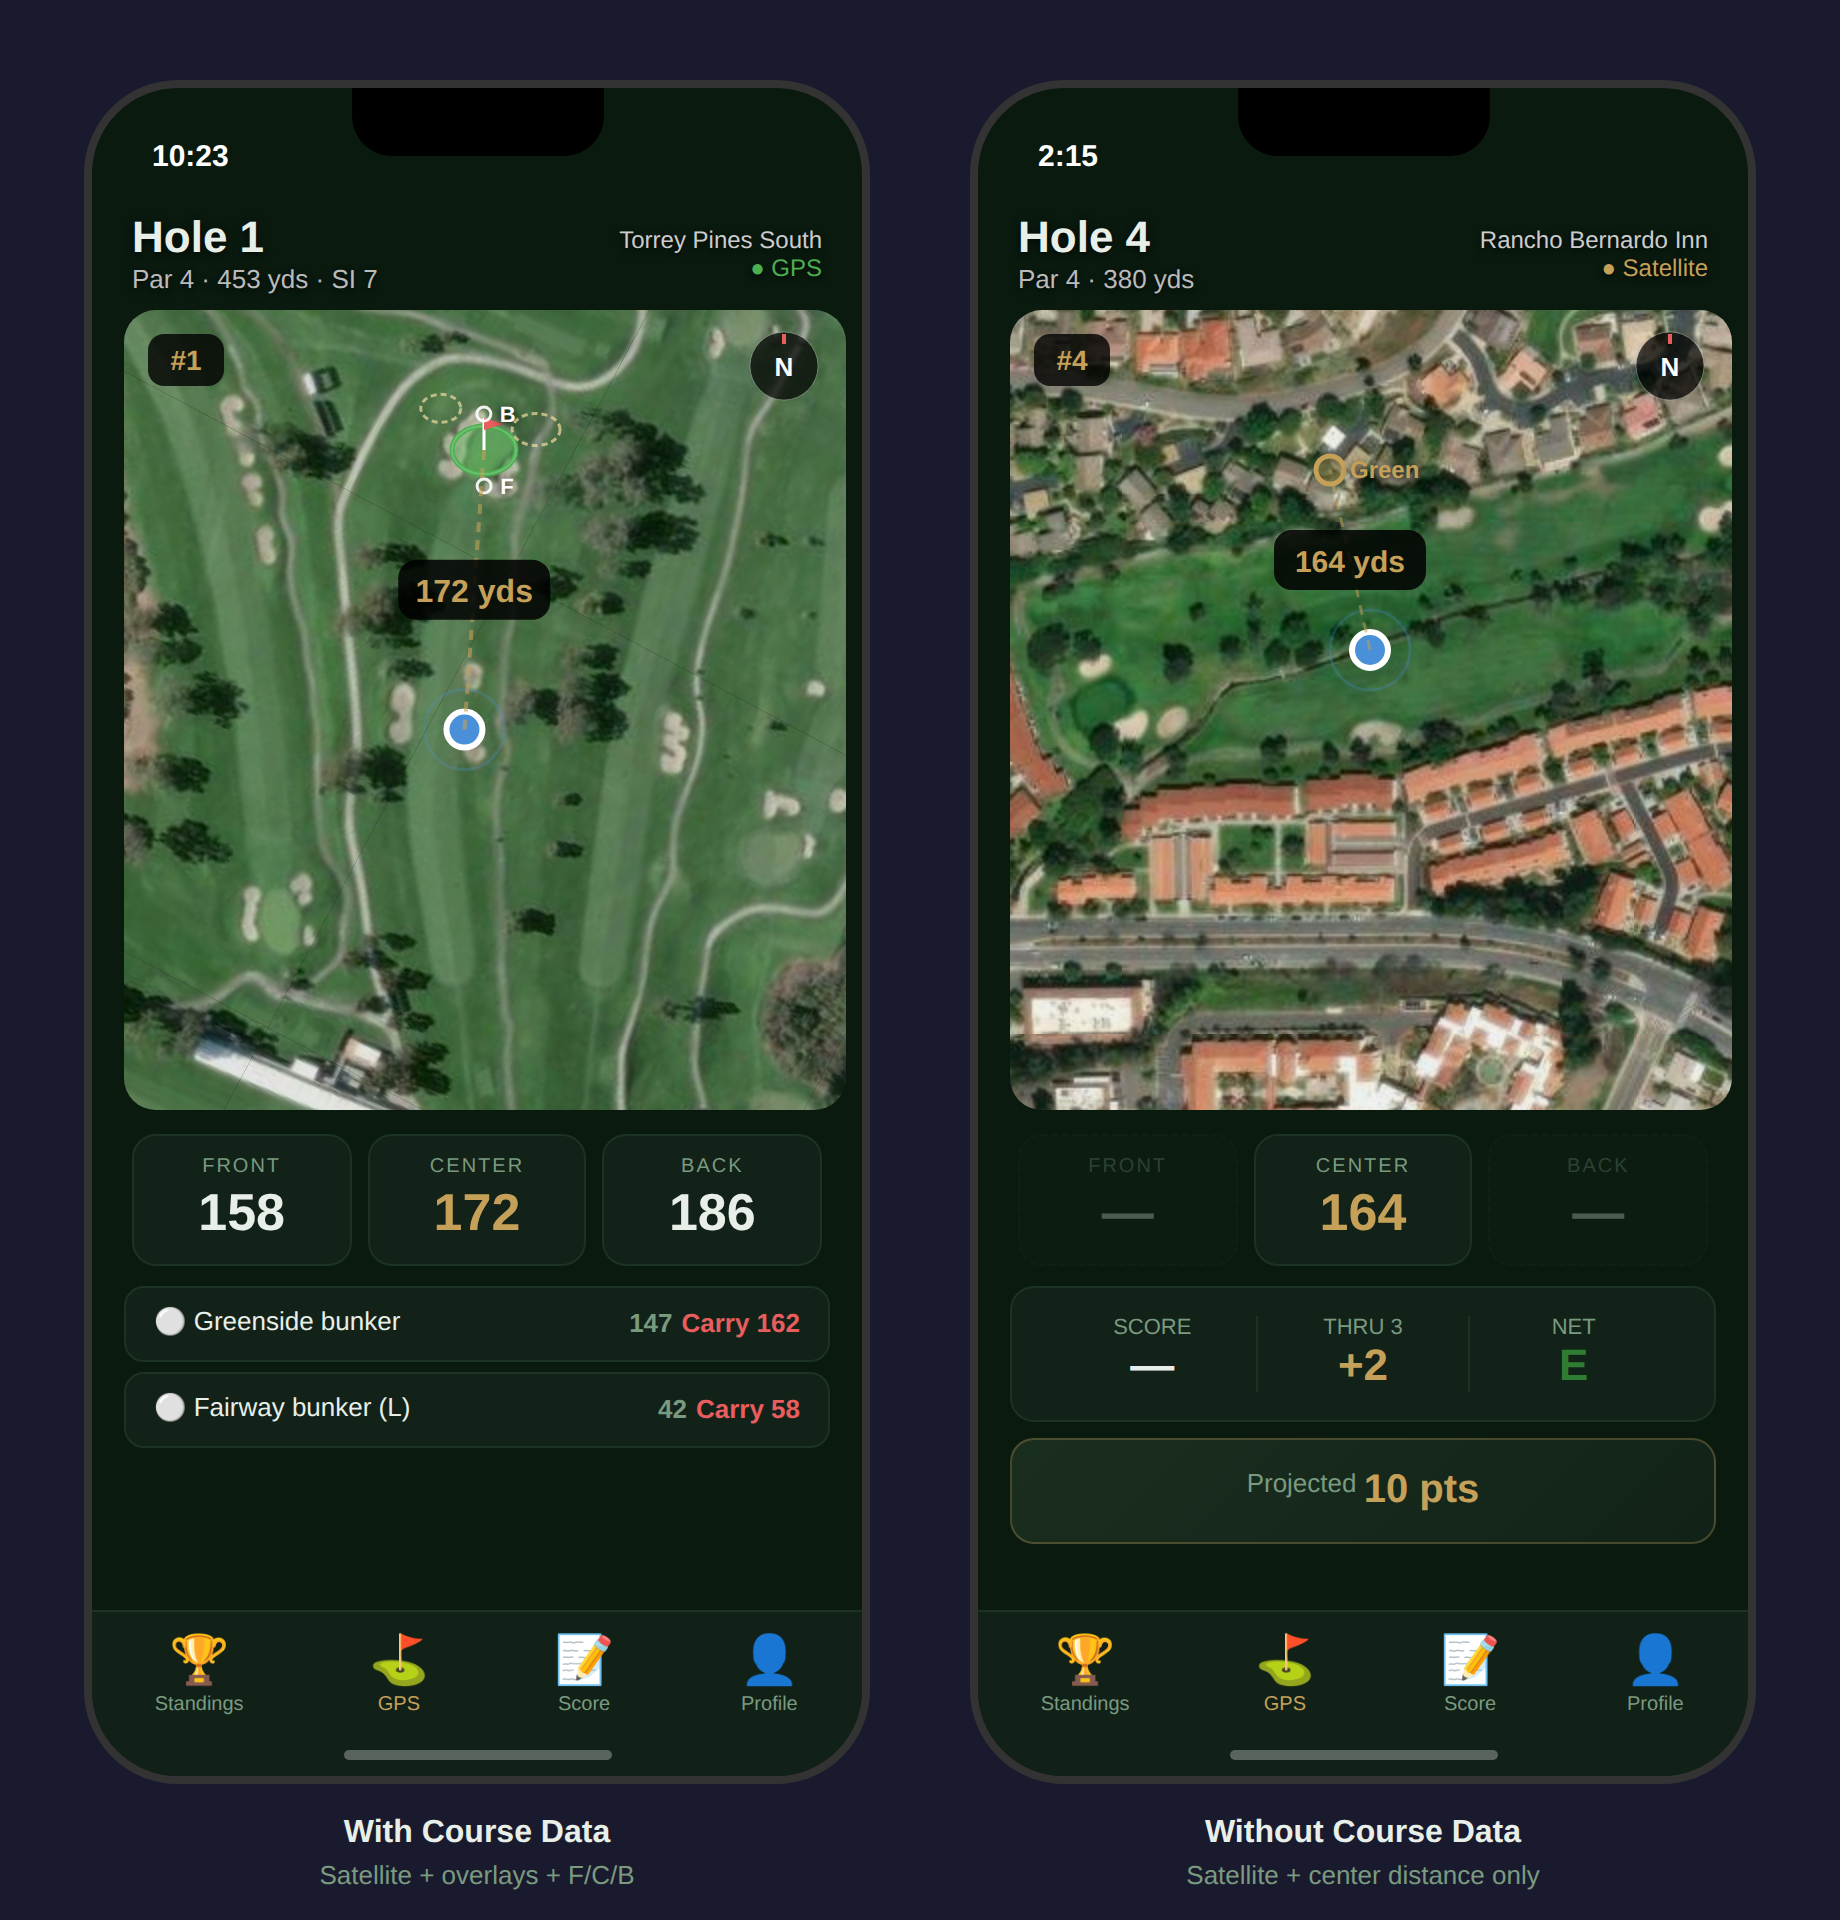
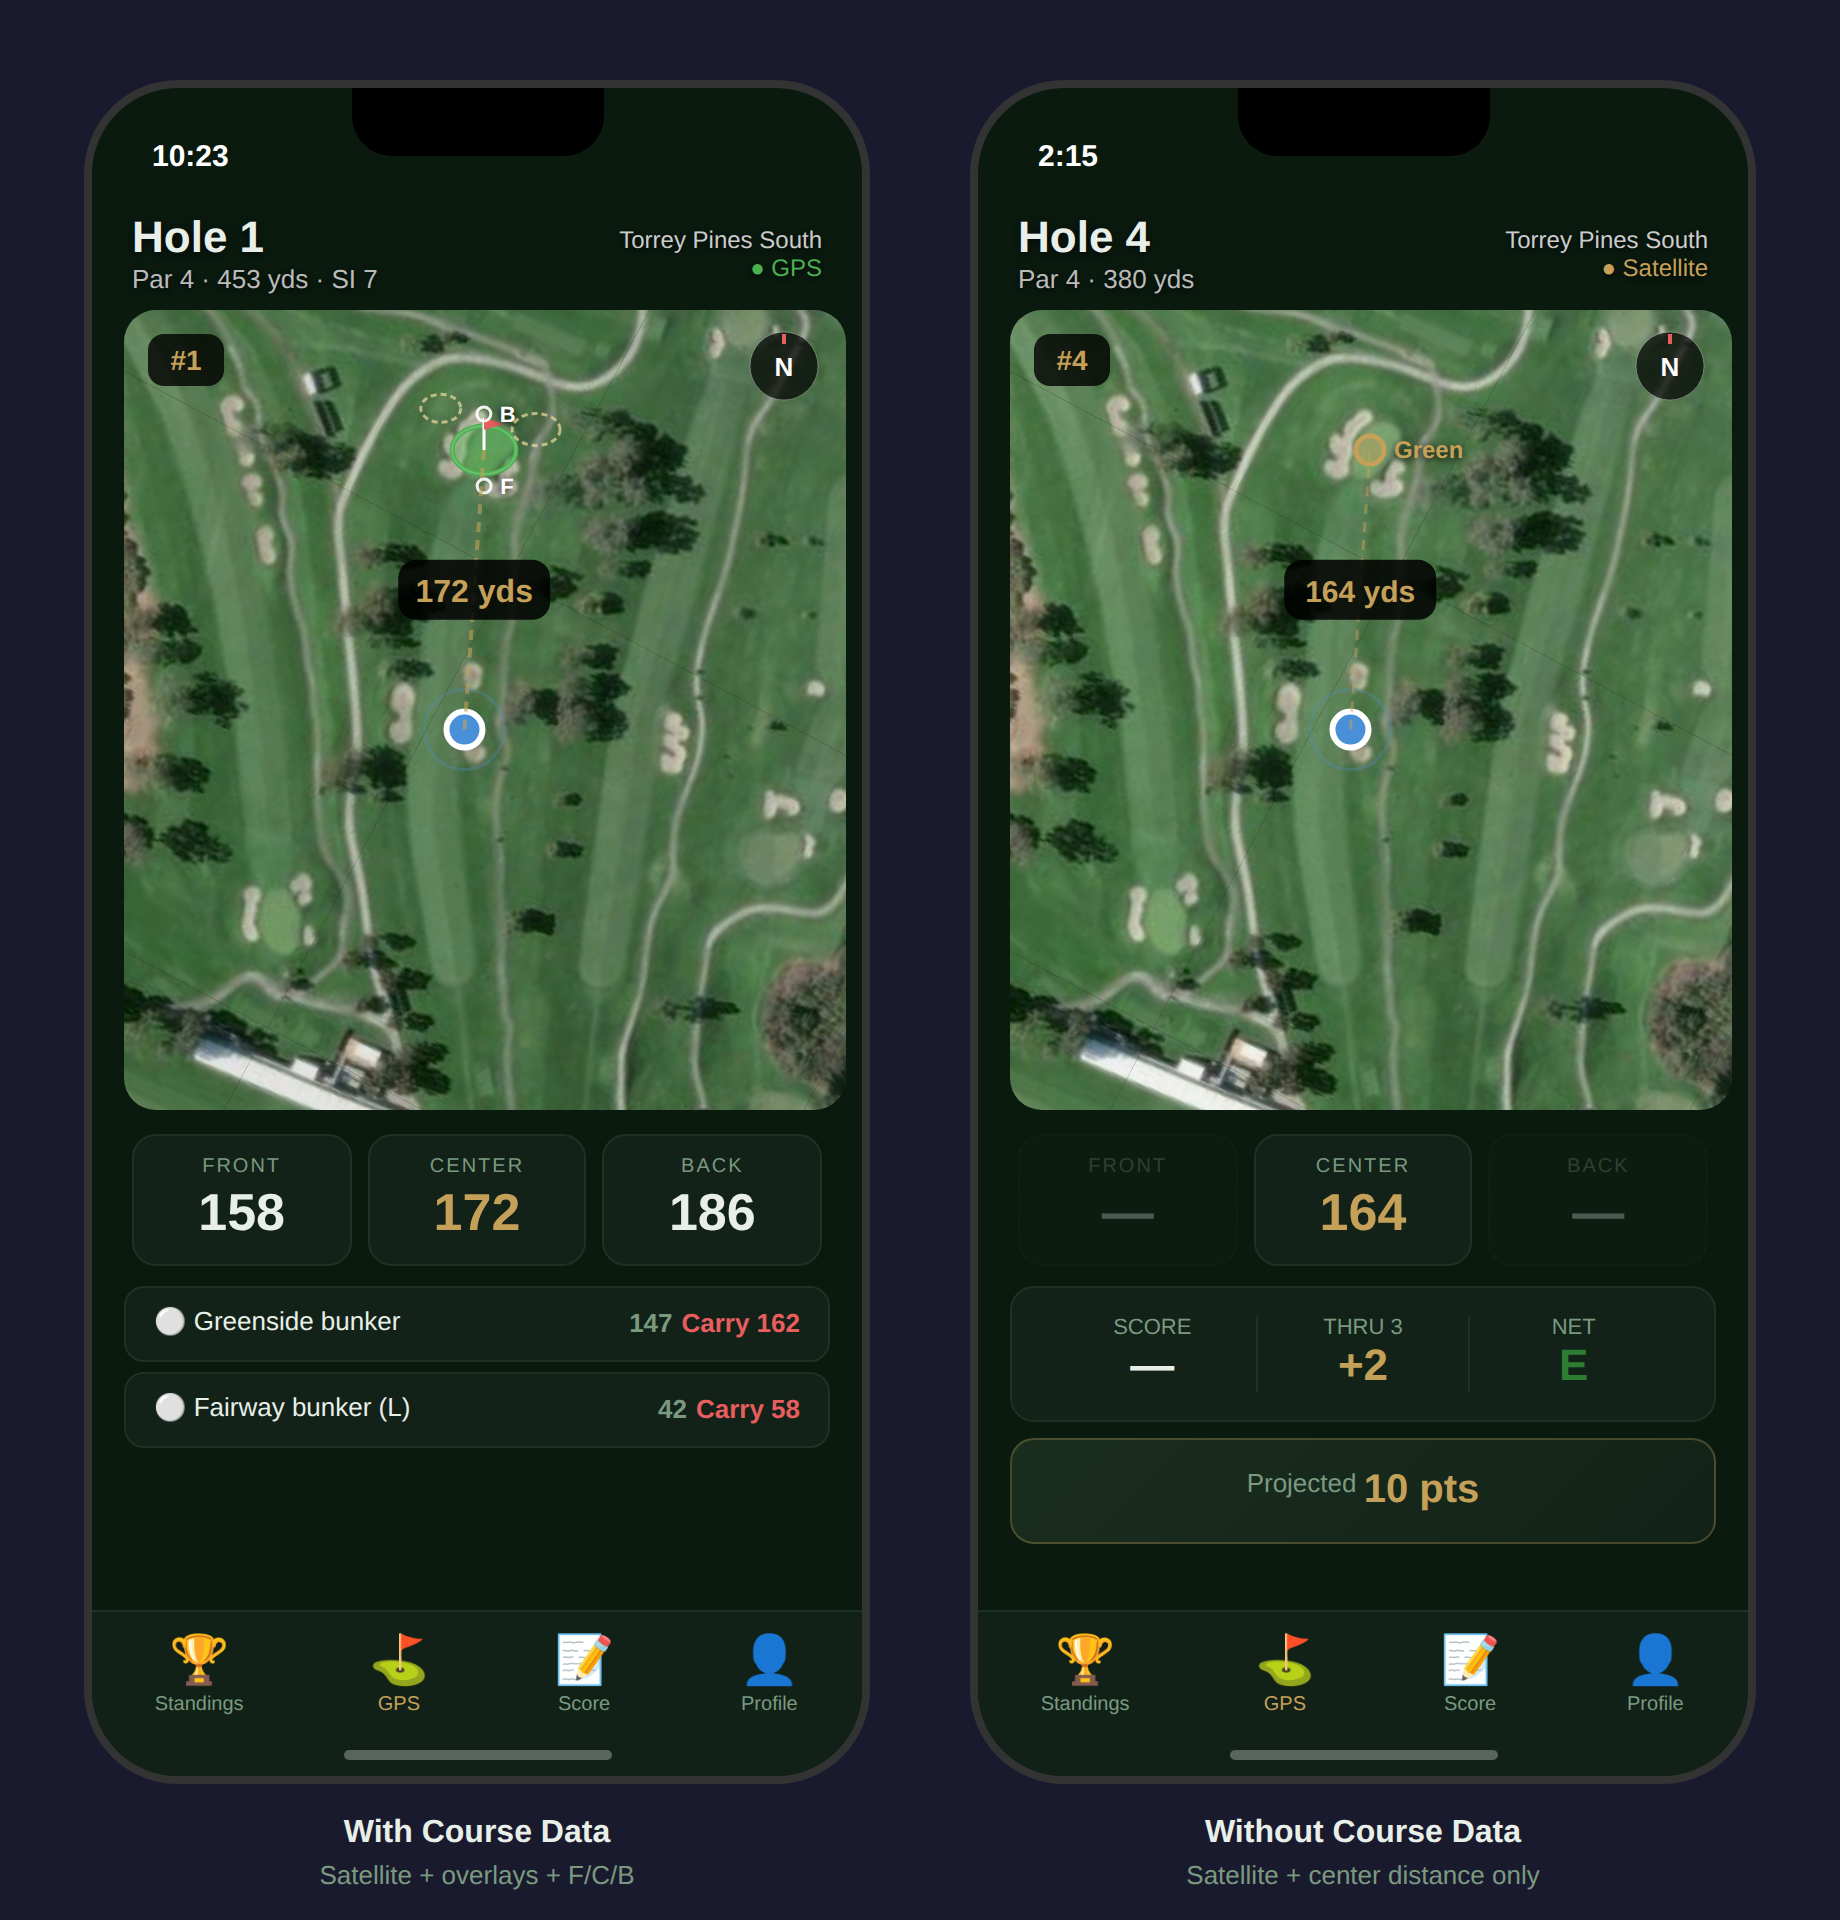
Fix satellite-only mockup: use real course tiles, not houses
Both screens now show the same Torrey Pines satellite imagery.
Left has OSM overlays (green outline, bunkers, F/B markers).
Right has just the green pin and center distance — no overlays
but you can still see the course in the satellite photo.

https://claude.ai/code/session_013SdjP7B4xdi4KLbhMkoADJ

Changed region(s): [[0.5266, 0.125, 0.9603, 0.5938]]

diff --git a/docs/mockups/render-v5.js b/docs/mockups/render-v5.js
@@ -149,30 +149,29 @@ window.addEventListener('DOMContentLoaded', () => {
   document.getElementById('bk2').setAttribute('cx', gv.x + Math.cos(bOff2Angle) * 30);
   document.getElementById('bk2').setAttribute('cy', gv.y + Math.sin(bOff2Angle) * 30);
 
-  // ---- Screen 2: satellite only ----
+  // ---- Screen 2: same satellite, no overlays ----
+  // Reuse same Torrey Pines tiles + rotation, just with minimal overlay
   const tg2 = document.getElementById('tg2');
-  // Center the Rancho Bernardo tiles with user in middle
-  tg2.style.left = '-200px';
-  tg2.style.top = '-150px';
+  tg2.style.left = offsetX + 'px';
+  tg2.style.top = offsetY + 'px';
 
-  // User dot for screen 2
-  const u2x = 180, u2y = 170;
-  document.getElementById('user2-c').setAttribute('cx', u2x);
-  document.getElementById('user2-c').setAttribute('cy', u2y);
-  document.getElementById('user2-r').setAttribute('cx', u2x);
-  document.getElementById('user2-r').setAttribute('cy', u2y);
+  // Same user position, green pin only (no outlines, no F/B)
+  const gv2 = toVP(g.x, g.y);
+  const uv2 = toVP(u.x, u.y);
 
-  // Green pin for screen 2 (saved from tap-and-save, towards top of screen)
-  const g2x = 160, g2y = 80;
-  document.getElementById('gpin2').setAttribute('cx', g2x);
-  document.getElementById('gpin2').setAttribute('cy', g2y);
-  document.getElementById('gpin2t').setAttribute('x', g2x + 10);
-  document.getElementById('gpin2t').setAttribute('y', g2y + 4);
-  document.getElementById('dline2').setAttribute('x1', u2x);
-  document.getElementById('dline2').setAttribute('y1', u2y);
-  document.getElementById('dline2').setAttribute('x2', g2x);
-  document.getElementById('dline2').setAttribute('y2', g2y);
-  const m2x = (u2x+g2x)/2, m2y = (u2y+g2y)/2;
+  document.getElementById('gpin2').setAttribute('cx', gv2.x);
+  document.getElementById('gpin2').setAttribute('cy', gv2.y);
+  document.getElementById('gpin2t').setAttribute('x', gv2.x + 12);
+  document.getElementById('gpin2t').setAttribute('y', gv2.y + 4);
+  document.getElementById('user2-c').setAttribute('cx', uv2.x);
+  document.getElementById('user2-c').setAttribute('cy', uv2.y);
+  document.getElementById('user2-r').setAttribute('cx', uv2.x);
+  document.getElementById('user2-r').setAttribute('cy', uv2.y);
+  document.getElementById('dline2').setAttribute('x1', uv2.x);
+  document.getElementById('dline2').setAttribute('y1', uv2.y);
+  document.getElementById('dline2').setAttribute('x2', gv2.x);
+  document.getElementById('dline2').setAttribute('y2', gv2.y);
+  const m2x = (uv2.x+gv2.x)/2, m2y = (uv2.y+gv2.y)/2;
   document.getElementById('dbg2').setAttribute('x', m2x - 38);
   document.getElementById('dbg2').setAttribute('y', m2y - 15);
   document.getElementById('dtxt2').setAttribute('x', m2x);
@@ -252,13 +251,13 @@ window.addEventListener('DOMContentLoaded', () => {
   <div class="scr">
     <div class="hdr">
       <div><div class="hn">Hole 4</div><div class="hp">Par 4 · 380 yds</div></div>
-      <div style="text-align:right"><div style="font-size:12px;color:#ccc;text-shadow:0 1px 3px rgba(0,0,0,0.8)">Rancho Bernardo Inn</div><div style="font-size:12px;color:#C5A059;text-shadow:0 1px 3px rgba(0,0,0,0.8)">● Satellite</div></div>
+      <div style="text-align:right"><div style="font-size:12px;color:#ccc;text-shadow:0 1px 3px rgba(0,0,0,0.8)">Torrey Pines South</div><div style="font-size:12px;color:#C5A059;text-shadow:0 1px 3px rgba(0,0,0,0.8)">● Satellite</div></div>
     </div>
     <div class="map">
-      <div id="tg2" style="display:grid;grid-template-columns:repeat(3,256px);grid-template-rows:repeat(3,256px);position:absolute;">
-        <img src="${rb['0_0']}" style="width:256px;height:256px;display:block"><img src="${rb['0_1']}" style="width:256px;height:256px;display:block"><img src="${rb['0_2']}" style="width:256px;height:256px;display:block">
-        <img src="${rb['1_0']}" style="width:256px;height:256px;display:block"><img src="${rb['1_1']}" style="width:256px;height:256px;display:block"><img src="${rb['1_2']}" style="width:256px;height:256px;display:block">
-        <img src="${rb['2_0']}" style="width:256px;height:256px;display:block"><img src="${rb['2_1']}" style="width:256px;height:256px;display:block"><img src="${rb['2_2']}" style="width:256px;height:256px;display:block">
+      <div class="tgrid" id="tg2">
+        <img src="${tp['0_0']}"><img src="${tp['0_1']}"><img src="${tp['0_2']}">
+        <img src="${tp['1_0']}"><img src="${tp['1_1']}"><img src="${tp['1_2']}">
+        <img src="${tp['2_0']}"><img src="${tp['2_1']}"><img src="${tp['2_2']}">
       </div>
       <div style="position:absolute;top:0;left:0;right:0;bottom:0;background:rgba(0,0,0,0.05)"></div>
       <svg style="position:absolute;top:0;left:0;width:100%;height:100%;" viewBox="0 0 361 400">
